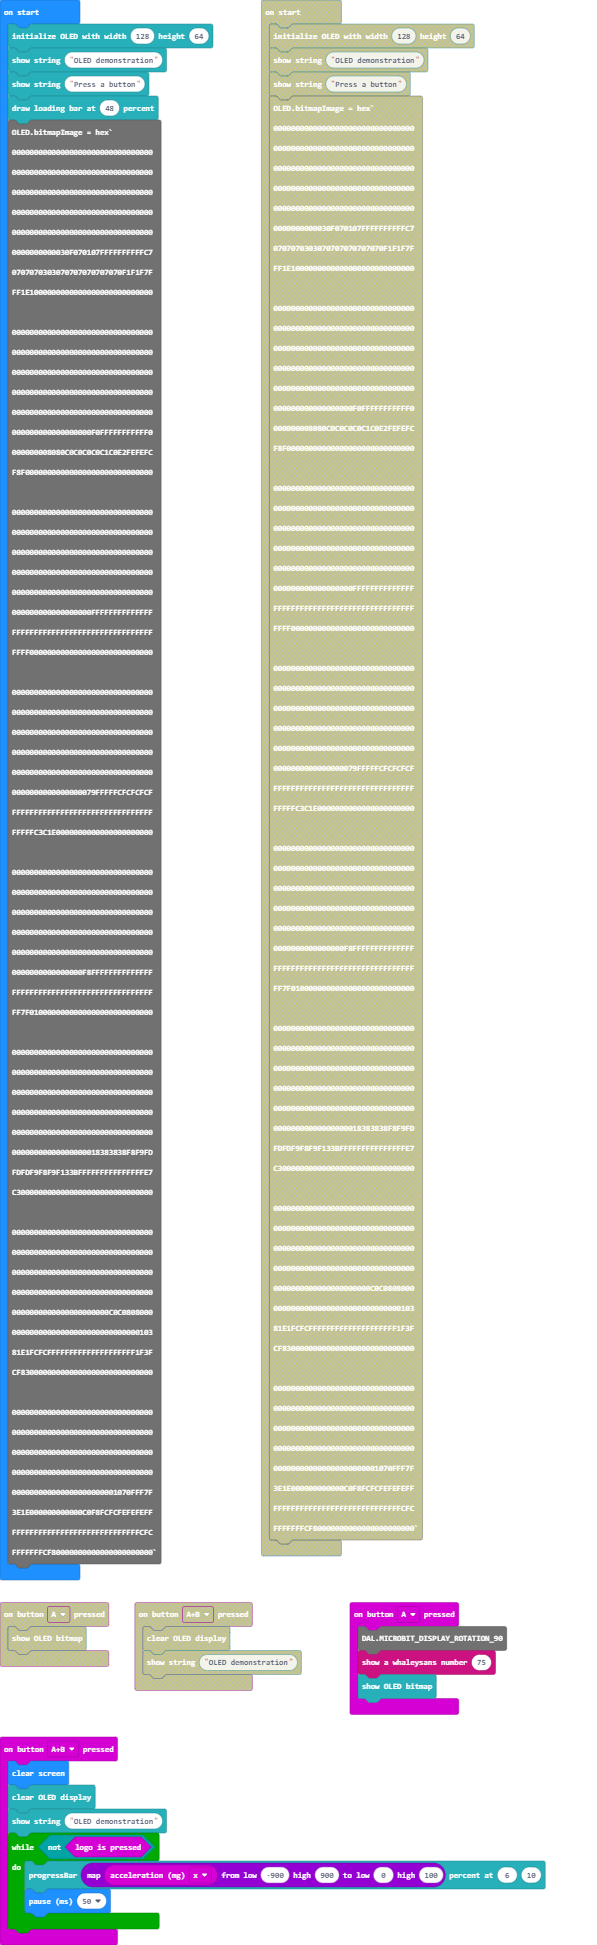
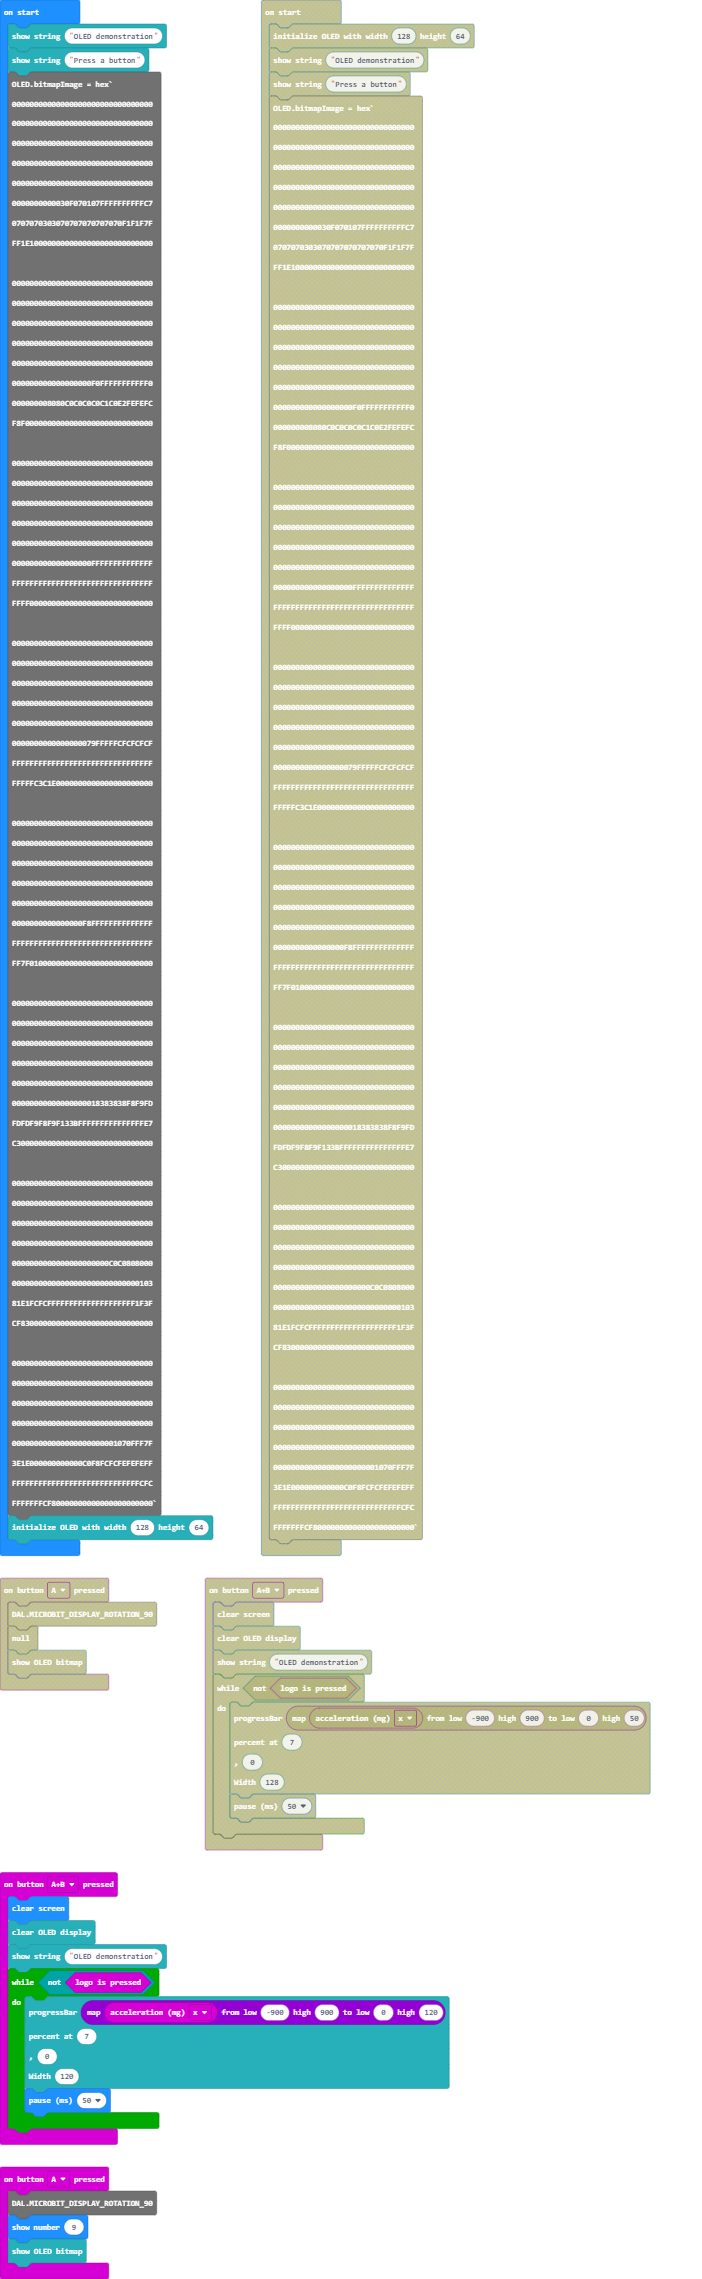
Update main.blocks, main.ts, custom.ts

diff --git a/custom.ts b/custom.ts
@@ -43,7 +43,6 @@ namespace OLED {
     //let font: Array<Array<number>>
     let loadStarted: boolean;
     let loadPercent: number;
-
     function command(cmd: number) {
         let buf = pins.createBuffer(2)
         buf[0] = 0x00
@@ -71,8 +70,12 @@ namespace OLED {
     export function clear() {
         loadStarted = false
         loadPercent = 0
-        setColumnAddress(0x00, displayWidth - 1)
-        setPageAddress(0x00, displayHeight - 1)
+        command(SSD1306_SETCOLUMNADRESS)
+        command(0x00)
+        command(displayWidth - 1)
+        command(SSD1306_SETPAGEADRESS)
+        command(0x00)
+        command(displayHeight - 1)
         let data = pins.createBuffer(17);
         data[0] = 0x40; // Data Mode
         for (let i = 1; i < 17; i++) {
@@ -99,6 +102,9 @@ namespace OLED {
         //let data = pins.createBuffer(2);
         let count = (displayWidth) * (displayHeight);
 
+
+
+
 let data = pins.createBuffer(2);
         for (let i = 0; i < count; i ++) {
             data[0] = 0x40; // Data Mode
@@ -108,6 +114,78 @@ let data = pins.createBuffer(2);
         charX = xOffset
         charY = yOffset
     }
+    function drawLoadingFrame() {
+        command(SSD1306_SETCOLUMNADRESS)
+        command(0x00)
+        command(displayWidth - 1)
+        command(SSD1306_SETPAGEADRESS)
+        command(0x00)
+        command(displayHeight - 1)
+        let col = 0
+        let page = 0
+        let data = pins.createBuffer(17);
+        data[0] = 0x40; // Data Mode
+        let i = 1
+        for (let page = 0; page < displayHeight; page++) {
+            for (let col = 0; col < displayWidth; col++) {
+                if (page === 3 && col > 12 && col < displayWidth - 12) {
+                    data[i] = 0x60
+                } else if (page === 5 && col > 12 && col < displayWidth - 12) {
+                    data[i] = 0x06
+                } else if (page === 4 && (col === 12 || col === 13 || col === displayWidth - 12 || col === displayWidth - 13)) {
+                    data[i] = 0xFF
+                } else {
+                    data[i] = 0x00
+                }
+                if (i === 16) {
+                    pins.i2cWriteBuffer(chipAdress, data, false)
+                    i = 1
+                } else {
+                    i++
+                }
+
+            }
+        }
+        charX = 30
+        charY = 2
+        writeString("Loading:")
+    }
+    function drawLoadingBar(percent: number) {
+        charX = 78
+        charY = 2
+        let num = Math.floor(percent)
+        writeNum(num)
+        writeString("%")
+        let width = displayWidth - 14 - 13
+        let lastStart = width * (loadPercent / displayWidth)
+        command(SSD1306_SETCOLUMNADRESS)
+        command(14 + lastStart)
+        command(displayWidth - 13)
+        command(SSD1306_SETPAGEADRESS)
+        command(4)
+        command(5)
+        let data = pins.createBuffer(2);
+        data[0] = 0x40; // Data Mode
+        data[1] = 0x7E
+        for (let i = lastStart; i < width * (Math.floor(percent) / 100); i++) {
+            pins.i2cWriteBuffer(chipAdress, data, false)
+        }
+        loadPercent = num
+    }
+
+    //% block="draw loading bar at $percent percent"
+    //% percent.min=0 percent.max=100
+    //% weight=2
+    export function drawLoading(percent: number) {
+        if (loadStarted) {
+            drawLoadingBar(percent)
+        } else {
+            drawLoadingFrame()
+            drawLoadingBar(percent)
+            loadStarted = true
+        }
+    }
+
 
     //% block="show (without newline) string $str"
     //% weight=6
@@ -145,14 +223,12 @@ let data = pins.createBuffer(2);
         charX = xOffset
     }
     function drawChar(x: number, y: number, c: string) {
-        setColumnAddress(x, x + 5)
-        setPageAddress(y, y + 1)
-       // command(SSD1306_SETCOLUMNADRESS)
-       // command(x)
-       // command(x + 5)
-       // command(SSD1306_SETPAGEADRESS)
-       // command(y)
-        //command(y + 1)
+        command(SSD1306_SETCOLUMNADRESS)
+        command(x)
+        command(x + 5)
+        command(SSD1306_SETPAGEADRESS)
+        command(y)
+        command(y + 1)
         let line = pins.createBuffer(2)
         line[0] = 0x40
         for (let i = 0; i < 6; i++) {
@@ -202,14 +278,12 @@ let data = pins.createBuffer(2);
                     }
                 }
                 if (line[1] !== 0x00) {
-                    setColumnAddress(x, x+1)
-                    setPageAddress(page, page+1)
-                    //command(SSD1306_SETCOLUMNADRESS)
-                    //command(x)
-                    //command(x + 1)
-                    //command(SSD1306_SETPAGEADRESS)
-                    //command(page)
-                    //command(page + 1)
+                    command(SSD1306_SETCOLUMNADRESS)
+                    command(x)
+                    command(x + 1)
+                    command(SSD1306_SETPAGEADRESS)
+                    command(page)
+                    command(page + 1)
                     //line[1] |= pins.i2cReadBuffer(chipAdress, 2)[1]
                     pins.i2cWriteBuffer(chipAdress, line, false)
                 }
@@ -258,7 +332,7 @@ let data = pins.createBuffer(2);
         drawShape(pixels)
     }
 
-    const PRG_MAX_SCALE  =   100
+     const PRG_MAX_SCALE  =   100
     const PRG_LEFT_EDGE  = 0xFF
     const PRG_RIGHT_EDGE = 0xFF
     const PRG_ACTIVE    =  0xBD
